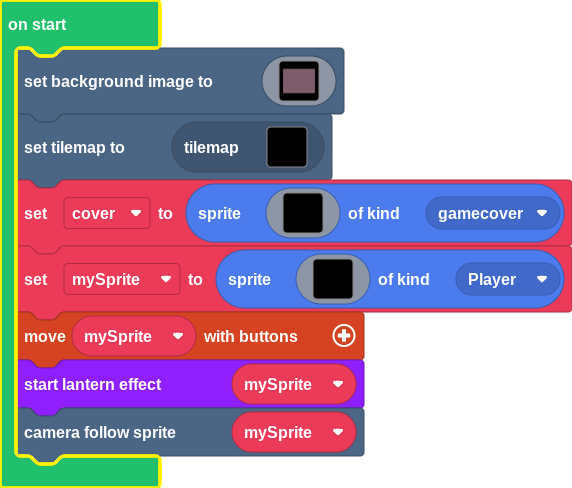
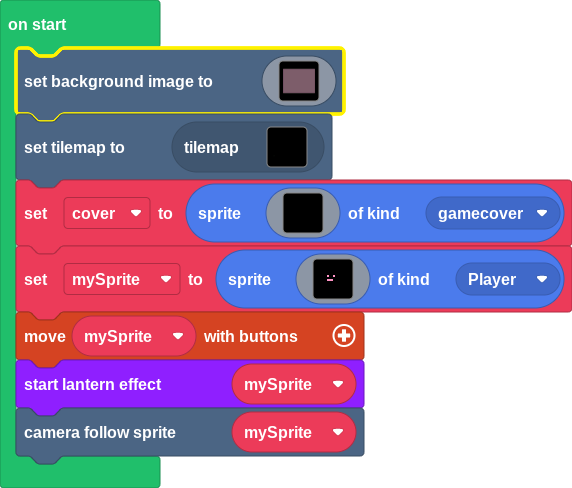
Update main.blocks, main.ts

Changed region(s): [[0.0, 0.0, 0.6241, 1.0], [0.0594, 0.2459, 0.0892, 0.2766]]

diff --git a/main.ts b/main.ts
@@ -253,9 +253,9 @@ let mySprite = sprites.create(img`
     . . . . . . . . . . . . . . . . 
     . . . . . . . . . . . . . . . . 
     . . . . . . . . . . . . . . . . 
-    . . . . . . f f f f . . . . . . 
+    . . . . . 3 f f 3 f . . . . . . 
     . . . . . f f f f f . . . . . . 
-    . . . . . f f f f f . . . . . . 
+    . . . . . 3 3 3 f f . . . . . . 
     . . . . . . f f f . . . . . . . 
     . . . . . . . . . . . . . . . . 
     . . . . . . . . . . . . . . . . 
